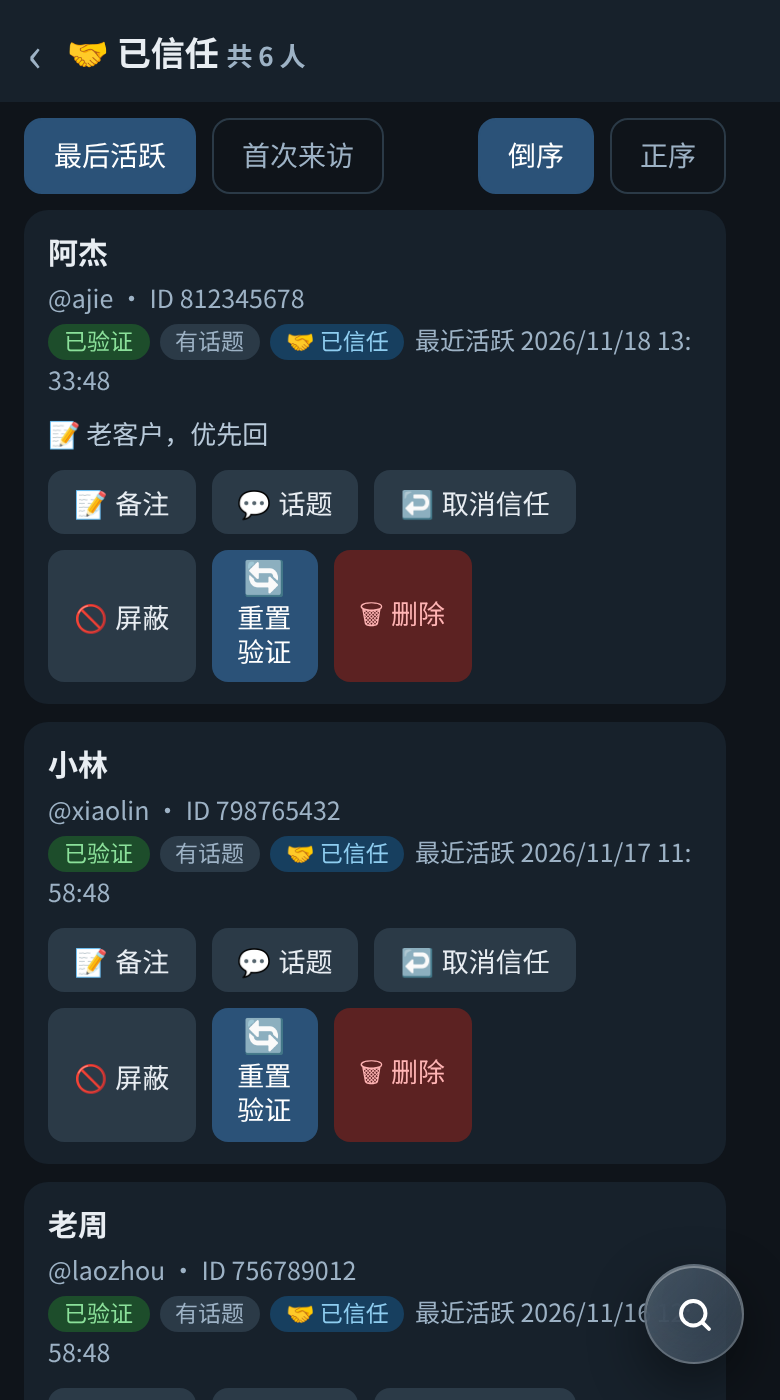
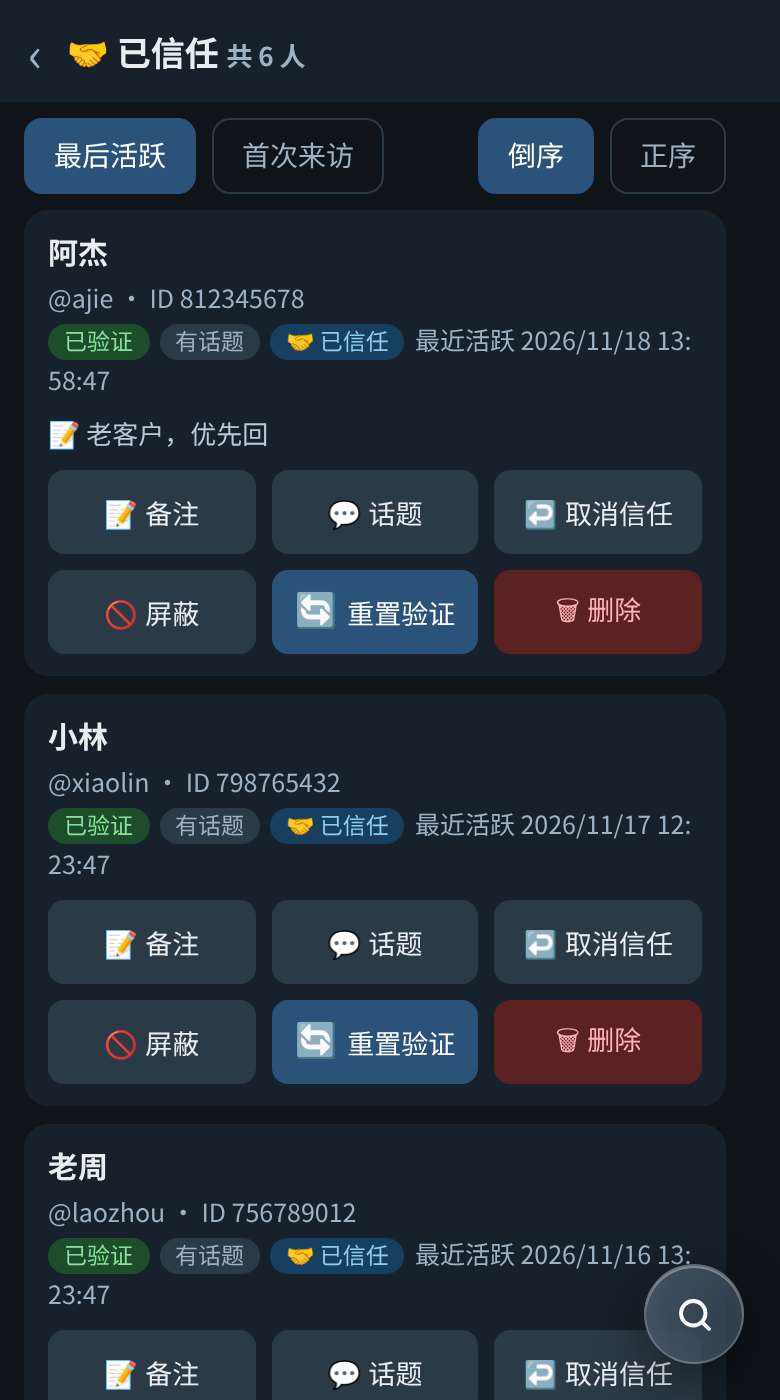
v1.6.3：访客卡按钮改等宽网格排版（每行 3 颗等宽、统一高度、重置验证横排单行）；README 第 14 项排版口径改准、功能版本号标注更新（.github 镜像同步）；访客列表、二级名单与主菜单效果图同步

diff --git a/TGbot-D1创新版本3.0.5-增强版.js b/TGbot-D1创新版本3.0.5-增强版.js
@@ -13401,7 +13401,7 @@ async function purgeManagedUser(
 /*                         自动检查更新（改版新增）                             */
 /* -------------------------------------------------------------------------- */
 
-const BOT_VERSION = 'v1.6.2';
+const BOT_VERSION = 'v1.6.3';
 const UPDATE_REPO = 'realadmin/TGbot-D1';
 const UPDATE_CACHE_KEY = 'sys:latest-release';
 const UPDATE_NOTIFIED_KEY = 'sys:update-notified';
@@ -19033,12 +19033,11 @@ function buildUserListPage(pageCtx = {}) {
   .b-dim { background: #2b3a47; color: #9db2c5; }
   .b-pass { background: #173f5f; color: #8ecdf0; }
   .ops { margin-top: 9px; display: flex; flex-wrap: wrap; gap: 8px; }
-  .ops button, .cf button { flex: 0 0 auto; padding: 6px 13px; border-radius: 8px; border: 0; font-size: 13.5px; white-space: nowrap; cursor: pointer; }
+  .ops button, .cf button { height: 42px; padding: 6px 13px; border-radius: 8px; border: 0; font-size: 13.5px; white-space: nowrap; cursor: pointer; }
+  .cf button { flex: 0 0 auto; }
+  .ops button { flex: 1 1 30%; display: flex; align-items: center; justify-content: center; gap: 5px; padding: 6px 4px; }
   .rst { background: #2b5278; color: #fff; }
-  .rwb { flex: 0 0 auto; display: flex; flex-direction: column; align-items: center; justify-content: center; gap: 2px; padding: 6px 10px; }
   .ric { font-size: 17px; line-height: 1.1; }
-  .rlab { line-height: 1.25; text-align: center; }
-  @media (min-width: 560px) { .rwb { flex-direction: row; gap: 5px; } .rlab br { display: none; } }
   .del { background: #5c2222; color: #ffb4b4; }
   .cf { margin-top: 9px; display: none; gap: 8px; flex-wrap: wrap; }
   .cf.open { display: flex; }
@@ -19600,8 +19599,8 @@ function render() {
     var ops = document.createElement('div');
     ops.className = 'ops';
     var rb = document.createElement('button');
-    rb.className = 'rst rwb';
-    rb.innerHTML = '<span class="ric">🔄</span><span class="rlab">重置<br>验证</span>';
+    rb.className = 'rst';
+    rb.innerHTML = '<span class="ric">🔄</span>重置验证';
     rb.onclick = function () {
       rb.disabled = true;
       act(u.id, 'reset', false).then(function (d) {

diff --git a/.github/README.md b/.github/README.md
@@ -42,10 +42,10 @@
 
 4. **验证消息自动清理**（v1.2.0 新增）
    - 验证流程里的机器人消息（验证提示、通行证消息与「🎉 验证成功」回执；已验证访客再发 /start 时回的也是这句欢迎消息，见本项末条）都会记下消息 ID 并在使用完毕后自动删除，不再在访客对话里越攒越多：反复索要验证提示只保留最新一条；通过验证时立即清掉验证提示与未使用的通行证；成功提示在访客发出第一条消息、进入处理时就删去（第一条消息被屏蔽关键词、类型过滤或限流拦下也照删，成功转发后再兜底清理一次）；过期未用的通行证在该访客下次来发消息时清扫。删除都是尽力而为（消息已被对方删掉等情况静默跳过），D1 里只存消息编号、不存正文，编号随访客记录一同删除。
-   - 清理范围扩围（v1.3.0，v1.6.2 再扩）：访客自己发的那条 /start，机器人在应答时就立即删掉——不等通过验证、每条都删，私聊里不留这条命令消息，日后整段清空时也不会再有删不掉的尾巴（此前只在通过验证时删最近一条、更早的不追溯）；通过验证时再清掉验证提示，验证前后的流程消息在访客对话里基本不留痕。注：早期版本在 /start 时先发的那条欢迎语已取消（v1.6.2），现在打开私聊只会收到验证卡本身；欢迎消息改在验证成功时发送，就是那句成功问候（见下条）。
-   - 欢迎消息就是验证成功问候（v1.6.2）：「🎉 验证成功」这条回执的文案改由管理台「基础配置 → 欢迎消息」决定（默认就是「🎉 验证成功！现在可以开始发送消息了。」），原先单独的「验证成功提示」设置项取消；管理台里这个字段显示的始终是实际会发出的问候：从没改过时显示默认句，早期版本留下的旧欢迎语存量会被当作未设置——既不会显示成现行文案，也不会再发给访客。
+   - 清理范围扩围（v1.3.0，v1.6.3 再扩）：访客自己发的那条 /start，机器人在应答时就立即删掉——不等通过验证、每条都删，私聊里不留这条命令消息，日后整段清空时也不会再有删不掉的尾巴（此前只在通过验证时删最近一条、更早的不追溯）；通过验证时再清掉验证提示，验证前后的流程消息在访客对话里基本不留痕。注：早期版本在 /start 时先发的那条欢迎语已取消（v1.6.3），现在打开私聊只会收到验证卡本身；欢迎消息改在验证成功时发送，就是那句成功问候（见下条）。
+   - 欢迎消息就是验证成功问候（v1.6.3）：「🎉 验证成功」这条回执的文案改由管理台「基础配置 → 欢迎消息」决定（默认就是「🎉 验证成功！现在可以开始发送消息了。」），原先单独的「验证成功提示」设置项取消；管理台里这个字段显示的始终是实际会发出的问候：从没改过时显示默认句，早期版本留下的旧欢迎语存量会被当作未设置——既不会显示成现行文案，也不会再发给访客。
    - 回执登记加固（v1.3.0）：六条发放成功提示的路径（静态问答、顺序点击、Turnstile、通行证、资料卡与列表设信任）统一收口到同一段发放代码；提示编号登记失败会自动重试，多次失败则把刚发出的这条提示删掉，宁可不留回执，也不留下一条谁也删不掉的记录。
-   - 覆盖已验证访客（v1.4.1）：已通过验证的访客再次发送 /start 时，这条 /start 同样在机器人应答时立即删掉；机器人回复的那条提示会被记下，在他下一条消息送达时清掉，不再只清提示、留下命令本身。v1.6.2 起这条提示并入欢迎消息：回的就是验证成功时那句问候本身（同一句、同一个「欢迎消息」字段可改），不再另发一条单独的已验证提示。
+   - 覆盖已验证访客（v1.4.1）：已通过验证的访客再次发送 /start 时，这条 /start 同样在机器人应答时立即删掉；机器人回复的那条提示会被记下，在他下一条消息送达时清掉，不再只清提示、留下命令本身。v1.6.3 起这条提示并入欢迎消息：回的就是验证成功时那句问候本身（同一句、同一个「欢迎消息」字段可改），不再另发一条单独的已验证提示。
 
 ### 消息转发与同步
 
@@ -116,14 +116,14 @@
    - 主菜单的网页按钮打开访客列表（签名链接、10 分钟有效、仅主管理员）：可搜索、按状态筛选、排序分页，并可对访客重置验证或删除记录（可选连带删除话题，并连访客与机器人私聊里的聊天副本一起清空）。
    - 列表改服务端分页（v1.4.0）：搜索、状态筛选与排序改由服务端按游标逐页返回，不再一次拉回全量名单；名单再大翻页也不重不漏，待验证访客的通行证状态改为一次批量读取，不再逐人查。v1.4.1：分页游标加了签名，篡改即作废；搜索改为查独立的姓名 / 用户名字段（存量访客随使用自动逐步补齐），不再拿资料原文做匹配，搜「username」这类字段名不会再误命中一片。
    - 访客姓名首次接触即落名（v1.4.3）：访客第一次发消息或按 /start 时就记下他的姓名与用户名，还没通过验证的人在列表里也有名有姓、能按名字搜到（此前名字要等通过验证、建好话题与资料卡才写，未验证访客一律显示「（无名字记录）」）；更早的存量无名行会在打开列表时自动逐批补齐（每次打开补几行，查得到的就补上，确实查不到的保持无名、等本人下次发消息时补，查询赶上限流或网络问题不会被误判成查无此人、下次打开还会重试）。
-   - 整段对话清空（v1.2.1 新增）：列表删除的「连话题、私聊一起清空」与话题内命令 /clear 共用同一套清空逻辑——按消息配对成批删除话题里的转发副本与访客私聊里的聊天副本（/clear 保留话题与访客档案，按钮版连话题与档案一并删除）；私聊里 48 小时前的消息删不掉，执行后会报告实删与删不掉的条数。（v1.6.2）私聊侧的删除范围还包括机器人单独记账、不在配对表里的流程消息：没通过验证的访客留下的验证卡、已通过的访客留下的欢迎消息，都会一并删掉并计入报告条数；话题 /clear 还会连熔断期间发出的回复卡一起清掉（此前漏删，本版补齐；网页版删人此前已覆盖）。整段清空影响很大，只有主管理员能操作：协管员发送 /clear 或点击确认都会被拦下（v1.2.2）。
+   - 整段对话清空（v1.2.1 新增）：列表删除的「连话题、私聊一起清空」与话题内命令 /clear 共用同一套清空逻辑——按消息配对成批删除话题里的转发副本与访客私聊里的聊天副本（/clear 保留话题与访客档案，按钮版连话题与档案一并删除）；私聊里 48 小时前的消息删不掉，执行后会报告实删与删不掉的条数。（v1.6.3）私聊侧的删除范围还包括机器人单独记账、不在配对表里的流程消息：没通过验证的访客留下的验证卡、已通过的访客留下的欢迎消息，都会一并删掉并计入报告条数；话题 /clear 还会连熔断期间发出的回复卡一起清掉（此前漏删，本版补齐；网页版删人此前已覆盖）。整段清空影响很大，只有主管理员能操作：协管员发送 /clear 或点击确认都会被拦下（v1.2.2）。
    - 列表顶部有数据统计区：访客总览（总数/已验证/待验证/已屏蔽/被屏蔽/未开始/已信任/有话题/待用通行证，与列表筛选对应的五项排在前面）与过去 24 小时 / 7 天 / 30 天的新增、活跃、消息量（访客/管理员回复）；活跃按建档时间拆成新客与老客两部分（新客＋老客＝总活跃），待用通行证只数已发放、还没用掉且没过期的。消息量按同步映射记录统计，仅回溯 90 天，口径在页面明示。统计数据改成切到「数据统计」页签时才取数（打开列表不再连带计算整份统计），取数期间统计区显示与名单加载相同的转圈，取到后缓存复用、失败则下次切入重试。
    - 页面为「访客列表 / 数据统计」双标签页，默认停在列表页，统计不再挤占列表的可视区域；访客备注可在列表行内查看与编辑（见第 11 项），搜索可命中备注内容。
    - 访客列表每行（有话题的访客）新增「💬 话题」按钮，点按后直接跳到话题群里该访客的话题页面，省去回群翻找话题的步骤。
    - 给单个访客开例外（v1.2.3 新增，v1.3.0 合并）：访客行与话题资料卡上只有一个「🤝 信任」开关（原「信任」与「放行」两个开关已合并为一个）。开启即免验证 + 免转发限流与按类型过滤（发新消息与编辑都豁免） + 免超时清理（删档版与温和版都免）；设上立即生效（对方收到欢迎消息、即验证成功问候，并按通过验证收尾），没走完验证的信任访客在闸门处自动放行，点 /start 也直接放行；重置验证与 /reverify 会连带撤销信任，被封禁者不能设；屏蔽关键词与关键词自动封禁对信任访客同样无效（v1.4.3：带着关键词的新消息与编辑照常送达、不拦截、不计数，此前已累计的计数不清零、只是不再增加）。只有主管理员能设：协管员在资料卡上点按会被拒绝，网页列表的授予参数也必须是明确的是 / 否，缺失或写错直接报错。信任访客行上挂「🤝 已信任」徽标（存量只有放行标记的也按已信任显示）。列表的默认排序与每页条数可在管理台预设，打开列表时自动套用。
    - 访客行新增「🚫 屏蔽 / ✅ 解封」开关（v1.3.0）：与话题命令 /ban、/unban、资料卡屏蔽按钮、关键词自动封禁走同一套封禁逻辑（详见第 21 项）。
    - 分页条带页码下拉、搜索改浮动玻璃胶囊（v1.5.5）：分页条中间的页码文字改成下拉选择，选哪页跳哪页（服务端按页取数、页码超界自动钳到最后一页；不带页码参数时原有游标翻页行为不变，页码模式与位置记忆衔接，切走再切回仍回到离开时的页）；原来占一整行的搜索框改为页面右下角的浮动玻璃胶囊，与回顶按钮同组常驻——收起是放大镜按钮、点开向左展开成输入框并自动聚焦，搜索词生效时收起的按钮上亮蓝点提醒，手动滚动、点筛选、点分页或回车都会收起（只收形态、词与结果保留），切到数据统计页签时整组隐藏。浮动按钮组可长按拖动摆放（v1.5.5）：长按回顶按钮或搜索胶囊任意一颗即可拖动整组，松手吸附到屏幕左侧或右侧、纵向停在松手高度，觉得挡住列表就把它挪开；拖回右下角原位会自动恢复避让分页条；展开搜索时回到输入法上方（靠左吸附时搜索框改为向右展开、文字紧贴放大镜），收起回到吸附的位置；翻页与切换视图时位置保持，关掉网页再打开恢复原位。
-   - 五视图横滑切换、重置验证按钮定式排版（v1.5.5）：在列表上左右滑动即可在五个筛选与「数据统计」之间切换（点按切换照旧）；卡片上的「重置验证」按钮改为定式排版——图标居中在上、「重置」「验证」各一行竖排堆叠，与同行其他按钮同宽同构图，不再随行宽收缩出现参差断行，宽屏下自动转横排一行显示。
+   - 五视图横滑切换（v1.5.5）：在列表上左右滑动即可在五个筛选与「数据统计」之间切换（点按切换照旧）；卡片按钮网格排版（v1.6.3）：卡片上的操作按钮每行 3 颗等宽排列、统一高度，全部横排单行显示，按钮标签不再被折成两行；「重置验证」也与其他按钮同规格横排（v1.5.5 起的竖排定式已取消）。
    - 排序改两段式按钮行（v1.5.5）：列表顶部的排序下拉换成一整行按钮：左半选按最后活跃还是首次来访排（首次来访即访客第一次与机器人互动、建档的时间，原先按「注册」时间称呼），右半选倒序还是正序；补上了「最后活跃 · 正序」，最久没有动静的访客也能排到最前面。这行按钮就排在列表最上方、随列表滚走不常驻；列表页顶部更紧凑：页签行与筛选行同属一整块置顶区、底色统一，各行间距收紧并成比例（页签与筛选之间是筛选与排序之间的一半），排序行上下留白收窄、顶部少占地方；管理台里的默认排序也改成同样的四种组合，旧版存下的默认设置会自动对应到新组合、不用重设。
    - 新增「被屏蔽」筛选（v1.6.0）：筛选行在「已屏蔽」之后多了第五个钮「被屏蔽」，专列拉黑了机器人的访客，横滑序列也随之多出一站（全部 / 已验证 / 待验证 / 已屏蔽 / 被屏蔽 / 数据统计，共六站）。它与已验证 / 待验证 / 已屏蔽是不同维度的横切筛选：同一个人可以同时是已验证又被屏蔽，在这个视图里他的卡片仍显示各自原来的状态徽章；这里的人数与数据统计页「被屏蔽」的计数同一口径，对方解除拉黑后会自动退出这个视图；搜索与排序在这个视图里照常可用。
    - 统计数字可点进名单（v1.6.0）：数据统计页访客总览的九个数字都能点：点访客总数 / 已验证 / 待验证 / 已屏蔽 / 被屏蔽，直接跳到访客列表并激活对应的筛选；点未开始 / 已信任 / 有话题 / 待用通行证，则进入一个专属的二级名单页：点开时整个名单页从右侧整页推入，顶部只有返回箭头、人群名和紧跟在名字后面的人数（同一行），没有页签与筛选按钮，但名单上方有与访客列表共用的同一条排序栏（最后活跃 / 首次来访 × 正序 / 倒序），两边共用一份排序设置、在一处改了另一处同步，翻看、搜索与行内操作和访客列表一样，点返回整页滑出、回到数据统计。四个新筛选与统计页的计数同一口径（待用通行证只数还没用掉且没过期的，统计与列表共用同一套判定，两边数字恒等）；统计页里被封禁这批人的称呼也与筛选统一为「已屏蔽」。
@@ -135,7 +135,7 @@
     - 原来在 Telegram 里逐个点按钮、等菜单刷新的配置方式已删除，全部搬到网页：主菜单点「🛠 网页管理台」打开（同一套签名鉴权、仅主管理员），基础配置（欢迎消息/验证问答/验证方式/超时天数）、按类型过滤、屏蔽关键词、自动回复、协管员名单都在页内表单完成，改完即时生效。
     - 旧聊天记录里残留的配置按钮点按只会提示已迁移；话题内的访客资料卡按钮与话题命令不受影响。
     - 基础配置中验证方式排在验证问题之前；选择 Turnstile 时，验证问题与验证答案两项自动隐藏，切回静态问答再显示。
-    - 「基础配置」区内含「⚙ 参数与开关」（v1.2.3）：转发限流强度、通行证 / 验证链接有效期、问答锁定次数与时长、命令回执停留秒数可调，以及功能开关：反应同步 / 转发失败提醒 / 拉黑提醒（编辑标记为写死特性、不设开关，见第 6 项）；另有「🎨 文案与呈现」区（v1.2.3）：可配文案（答错、熔断恢复、熔断编辑警告、拉黑、解封五句；v1.6.2 起再扩九项：问答锁定提示、人机验证卡正文、通行证送达、发给访客的封禁 / 解封通知、关键词命中提示、类型过滤的拒绝提示（发送类与转发类两个模板）、特殊类型无法转达提示，带 {minutes}、{count} 这类占位符的文案替换后填入实际数字）、话题名四种样式（备注在前 / 名字在前 / 不带 ID / 备注不上标题）、主菜单五个按钮逐个显隐、访客列表默认排序与每页条数。
+    - 「基础配置」区内含「⚙ 参数与开关」（v1.2.3）：转发限流强度、通行证 / 验证链接有效期、问答锁定次数与时长、命令回执停留秒数可调，以及功能开关：反应同步 / 转发失败提醒 / 拉黑提醒（编辑标记为写死特性、不设开关，见第 6 项）；另有「🎨 文案与呈现」区（v1.2.3）：可配文案（答错、熔断恢复、熔断编辑警告、拉黑、解封五句；v1.6.3 起再扩九项：问答锁定提示、人机验证卡正文、通行证送达、发给访客的封禁 / 解封通知、关键词命中提示、类型过滤的拒绝提示（发送类与转发类两个模板）、特殊类型无法转达提示，带 {minutes}、{count} 这类占位符的文案替换后填入实际数字）、话题名四种样式（备注在前 / 名字在前 / 不带 ID / 备注不上标题）、主菜单五个按钮逐个显隐、访客列表默认排序与每页条数。
     - 主菜单的「网页管理台」按钮关掉前，页面会二次确认并给出警示（三页入口都经主菜单发放，关了之后手头链接过期就无处再领）；真关了也不怕：主管理员私聊发送 `/panel` 即可临时打开管理台（v1.2.3）。
     - 新增「🔐 安全与审计」区（v1.4.0）：三页网页链接可按页一键失效（见第 20 项），管理操作审计记录可在此查看；时间显示时区也可在「文案与呈现」里设置（默认 Asia/Singapore）。v1.4.1：审计记录支持按管理员 / 动作 / 目标筛选与翻页，并多记链接代次与来源 IP 两项归因；删除访客（含整段清空）、改协管员名单与成员看门狗豁免名单、作废链接这些最敏感的动作改为先写审计、写不进去就拒绝执行，其余操作审计写失败时管理台顶部会挂出异常横幅；安全区也写明了吊销的范围——只管已发出的网页链接，疑似签名密钥泄露时必须更换密钥，光吊销不够。
 
@@ -191,7 +191,7 @@
 
 22. **自动检查更新与命令菜单**（v1.0.2 新增）
     - 机器人会定期比对本仓库最新 Release，主菜单显示当前版本与更新状态；发现新版会私聊通知主管理员一次。主菜单有「🔄 检查更新」按钮，私聊命令 `/version` 也可查看。
-    - 命令菜单按身份分开注册（v1.6.2）：访客在私聊里点开菜单只看得到 `/start`；主管理员在自己的私聊里另有 `/testverify`、`/version`、`/panel`（主管理员直达网页管理台，v1.2.3）、`/pause`、`/resume`；话题命令 `/ban`、`/unban`、`/delete`、`/clear`、`/terminate`、`/card`、`/reverify`、`/note`、`/notedelete`、`/pause`、`/resume` 只出现在接待群里。`/help` 命令已下线（v1.6.2）：它和 /start 效果重复，手打 /help 会按普通消息处理。
+    - 命令菜单按身份分开注册（v1.6.3）：访客在私聊里点开菜单只看得到 `/start`；主管理员在自己的私聊里另有 `/testverify`、`/version`、`/panel`（主管理员直达网页管理台，v1.2.3）、`/pause`、`/resume`；话题命令 `/ban`、`/unban`、`/delete`、`/clear`、`/terminate`、`/card`、`/reverify`、`/note`、`/notedelete`、`/pause`、`/resume` 只出现在接待群里。`/help` 命令已下线（v1.6.3）：它和 /start 效果重复，手打 /help 会按普通消息处理。
 
 ## 与原版部署的差异
 

diff --git a/README-增强版.md b/README-增强版.md
@@ -42,10 +42,10 @@
 
 4. **验证消息自动清理**（v1.2.0 新增）
    - 验证流程里的机器人消息（验证提示、通行证消息与「🎉 验证成功」回执；已验证访客再发 /start 时回的也是这句欢迎消息，见本项末条）都会记下消息 ID 并在使用完毕后自动删除，不再在访客对话里越攒越多：反复索要验证提示只保留最新一条；通过验证时立即清掉验证提示与未使用的通行证；成功提示在访客发出第一条消息、进入处理时就删去（第一条消息被屏蔽关键词、类型过滤或限流拦下也照删，成功转发后再兜底清理一次）；过期未用的通行证在该访客下次来发消息时清扫。删除都是尽力而为（消息已被对方删掉等情况静默跳过），D1 里只存消息编号、不存正文，编号随访客记录一同删除。
-   - 清理范围扩围（v1.3.0，v1.6.2 再扩）：访客自己发的那条 /start，机器人在应答时就立即删掉——不等通过验证、每条都删，私聊里不留这条命令消息，日后整段清空时也不会再有删不掉的尾巴（此前只在通过验证时删最近一条、更早的不追溯）；通过验证时再清掉验证提示，验证前后的流程消息在访客对话里基本不留痕。注：早期版本在 /start 时先发的那条欢迎语已取消（v1.6.2），现在打开私聊只会收到验证卡本身；欢迎消息改在验证成功时发送，就是那句成功问候（见下条）。
-   - 欢迎消息就是验证成功问候（v1.6.2）：「🎉 验证成功」这条回执的文案改由管理台「基础配置 → 欢迎消息」决定（默认就是「🎉 验证成功！现在可以开始发送消息了。」），原先单独的「验证成功提示」设置项取消；管理台里这个字段显示的始终是实际会发出的问候：从没改过时显示默认句，早期版本留下的旧欢迎语存量会被当作未设置——既不会显示成现行文案，也不会再发给访客。
+   - 清理范围扩围（v1.3.0，v1.6.3 再扩）：访客自己发的那条 /start，机器人在应答时就立即删掉——不等通过验证、每条都删，私聊里不留这条命令消息，日后整段清空时也不会再有删不掉的尾巴（此前只在通过验证时删最近一条、更早的不追溯）；通过验证时再清掉验证提示，验证前后的流程消息在访客对话里基本不留痕。注：早期版本在 /start 时先发的那条欢迎语已取消（v1.6.3），现在打开私聊只会收到验证卡本身；欢迎消息改在验证成功时发送，就是那句成功问候（见下条）。
+   - 欢迎消息就是验证成功问候（v1.6.3）：「🎉 验证成功」这条回执的文案改由管理台「基础配置 → 欢迎消息」决定（默认就是「🎉 验证成功！现在可以开始发送消息了。」），原先单独的「验证成功提示」设置项取消；管理台里这个字段显示的始终是实际会发出的问候：从没改过时显示默认句，早期版本留下的旧欢迎语存量会被当作未设置——既不会显示成现行文案，也不会再发给访客。
    - 回执登记加固（v1.3.0）：六条发放成功提示的路径（静态问答、顺序点击、Turnstile、通行证、资料卡与列表设信任）统一收口到同一段发放代码；提示编号登记失败会自动重试，多次失败则把刚发出的这条提示删掉，宁可不留回执，也不留下一条谁也删不掉的记录。
-   - 覆盖已验证访客（v1.4.1）：已通过验证的访客再次发送 /start 时，这条 /start 同样在机器人应答时立即删掉；机器人回复的那条提示会被记下，在他下一条消息送达时清掉，不再只清提示、留下命令本身。v1.6.2 起这条提示并入欢迎消息：回的就是验证成功时那句问候本身（同一句、同一个「欢迎消息」字段可改），不再另发一条单独的已验证提示。
+   - 覆盖已验证访客（v1.4.1）：已通过验证的访客再次发送 /start 时，这条 /start 同样在机器人应答时立即删掉；机器人回复的那条提示会被记下，在他下一条消息送达时清掉，不再只清提示、留下命令本身。v1.6.3 起这条提示并入欢迎消息：回的就是验证成功时那句问候本身（同一句、同一个「欢迎消息」字段可改），不再另发一条单独的已验证提示。
 
 ### 消息转发与同步
 
@@ -116,14 +116,14 @@
    - 主菜单的网页按钮打开访客列表（签名链接、10 分钟有效、仅主管理员）：可搜索、按状态筛选、排序分页，并可对访客重置验证或删除记录（可选连带删除话题，并连访客与机器人私聊里的聊天副本一起清空）。
    - 列表改服务端分页（v1.4.0）：搜索、状态筛选与排序改由服务端按游标逐页返回，不再一次拉回全量名单；名单再大翻页也不重不漏，待验证访客的通行证状态改为一次批量读取，不再逐人查。v1.4.1：分页游标加了签名，篡改即作废；搜索改为查独立的姓名 / 用户名字段（存量访客随使用自动逐步补齐），不再拿资料原文做匹配，搜「username」这类字段名不会再误命中一片。
    - 访客姓名首次接触即落名（v1.4.3）：访客第一次发消息或按 /start 时就记下他的姓名与用户名，还没通过验证的人在列表里也有名有姓、能按名字搜到（此前名字要等通过验证、建好话题与资料卡才写，未验证访客一律显示「（无名字记录）」）；更早的存量无名行会在打开列表时自动逐批补齐（每次打开补几行，查得到的就补上，确实查不到的保持无名、等本人下次发消息时补，查询赶上限流或网络问题不会被误判成查无此人、下次打开还会重试）。
-   - 整段对话清空（v1.2.1 新增）：列表删除的「连话题、私聊一起清空」与话题内命令 /clear 共用同一套清空逻辑——按消息配对成批删除话题里的转发副本与访客私聊里的聊天副本（/clear 保留话题与访客档案，按钮版连话题与档案一并删除）；私聊里 48 小时前的消息删不掉，执行后会报告实删与删不掉的条数。（v1.6.2）私聊侧的删除范围还包括机器人单独记账、不在配对表里的流程消息：没通过验证的访客留下的验证卡、已通过的访客留下的欢迎消息，都会一并删掉并计入报告条数；话题 /clear 还会连熔断期间发出的回复卡一起清掉（此前漏删，本版补齐；网页版删人此前已覆盖）。整段清空影响很大，只有主管理员能操作：协管员发送 /clear 或点击确认都会被拦下（v1.2.2）。
+   - 整段对话清空（v1.2.1 新增）：列表删除的「连话题、私聊一起清空」与话题内命令 /clear 共用同一套清空逻辑——按消息配对成批删除话题里的转发副本与访客私聊里的聊天副本（/clear 保留话题与访客档案，按钮版连话题与档案一并删除）；私聊里 48 小时前的消息删不掉，执行后会报告实删与删不掉的条数。（v1.6.3）私聊侧的删除范围还包括机器人单独记账、不在配对表里的流程消息：没通过验证的访客留下的验证卡、已通过的访客留下的欢迎消息，都会一并删掉并计入报告条数；话题 /clear 还会连熔断期间发出的回复卡一起清掉（此前漏删，本版补齐；网页版删人此前已覆盖）。整段清空影响很大，只有主管理员能操作：协管员发送 /clear 或点击确认都会被拦下（v1.2.2）。
    - 列表顶部有数据统计区：访客总览（总数/已验证/待验证/已屏蔽/被屏蔽/未开始/已信任/有话题/待用通行证，与列表筛选对应的五项排在前面）与过去 24 小时 / 7 天 / 30 天的新增、活跃、消息量（访客/管理员回复）；活跃按建档时间拆成新客与老客两部分（新客＋老客＝总活跃），待用通行证只数已发放、还没用掉且没过期的。消息量按同步映射记录统计，仅回溯 90 天，口径在页面明示。统计数据改成切到「数据统计」页签时才取数（打开列表不再连带计算整份统计），取数期间统计区显示与名单加载相同的转圈，取到后缓存复用、失败则下次切入重试。
    - 页面为「访客列表 / 数据统计」双标签页，默认停在列表页，统计不再挤占列表的可视区域；访客备注可在列表行内查看与编辑（见第 11 项），搜索可命中备注内容。
    - 访客列表每行（有话题的访客）新增「💬 话题」按钮，点按后直接跳到话题群里该访客的话题页面，省去回群翻找话题的步骤。
    - 给单个访客开例外（v1.2.3 新增，v1.3.0 合并）：访客行与话题资料卡上只有一个「🤝 信任」开关（原「信任」与「放行」两个开关已合并为一个）。开启即免验证 + 免转发限流与按类型过滤（发新消息与编辑都豁免） + 免超时清理（删档版与温和版都免）；设上立即生效（对方收到欢迎消息、即验证成功问候，并按通过验证收尾），没走完验证的信任访客在闸门处自动放行，点 /start 也直接放行；重置验证与 /reverify 会连带撤销信任，被封禁者不能设；屏蔽关键词与关键词自动封禁对信任访客同样无效（v1.4.3：带着关键词的新消息与编辑照常送达、不拦截、不计数，此前已累计的计数不清零、只是不再增加）。只有主管理员能设：协管员在资料卡上点按会被拒绝，网页列表的授予参数也必须是明确的是 / 否，缺失或写错直接报错。信任访客行上挂「🤝 已信任」徽标（存量只有放行标记的也按已信任显示）。列表的默认排序与每页条数可在管理台预设，打开列表时自动套用。
    - 访客行新增「🚫 屏蔽 / ✅ 解封」开关（v1.3.0）：与话题命令 /ban、/unban、资料卡屏蔽按钮、关键词自动封禁走同一套封禁逻辑（详见第 21 项）。
    - 分页条带页码下拉、搜索改浮动玻璃胶囊（v1.5.5）：分页条中间的页码文字改成下拉选择，选哪页跳哪页（服务端按页取数、页码超界自动钳到最后一页；不带页码参数时原有游标翻页行为不变，页码模式与位置记忆衔接，切走再切回仍回到离开时的页）；原来占一整行的搜索框改为页面右下角的浮动玻璃胶囊，与回顶按钮同组常驻——收起是放大镜按钮、点开向左展开成输入框并自动聚焦，搜索词生效时收起的按钮上亮蓝点提醒，手动滚动、点筛选、点分页或回车都会收起（只收形态、词与结果保留），切到数据统计页签时整组隐藏。浮动按钮组可长按拖动摆放（v1.5.5）：长按回顶按钮或搜索胶囊任意一颗即可拖动整组，松手吸附到屏幕左侧或右侧、纵向停在松手高度，觉得挡住列表就把它挪开；拖回右下角原位会自动恢复避让分页条；展开搜索时回到输入法上方（靠左吸附时搜索框改为向右展开、文字紧贴放大镜），收起回到吸附的位置；翻页与切换视图时位置保持，关掉网页再打开恢复原位。
-   - 五视图横滑切换、重置验证按钮定式排版（v1.5.5）：在列表上左右滑动即可在五个筛选与「数据统计」之间切换（点按切换照旧）；卡片上的「重置验证」按钮改为定式排版——图标居中在上、「重置」「验证」各一行竖排堆叠，与同行其他按钮同宽同构图，不再随行宽收缩出现参差断行，宽屏下自动转横排一行显示。
+   - 五视图横滑切换（v1.5.5）：在列表上左右滑动即可在五个筛选与「数据统计」之间切换（点按切换照旧）；卡片按钮网格排版（v1.6.3）：卡片上的操作按钮每行 3 颗等宽排列、统一高度，全部横排单行显示，按钮标签不再被折成两行；「重置验证」也与其他按钮同规格横排（v1.5.5 起的竖排定式已取消）。
    - 排序改两段式按钮行（v1.5.5）：列表顶部的排序下拉换成一整行按钮：左半选按最后活跃还是首次来访排（首次来访即访客第一次与机器人互动、建档的时间，原先按「注册」时间称呼），右半选倒序还是正序；补上了「最后活跃 · 正序」，最久没有动静的访客也能排到最前面。这行按钮就排在列表最上方、随列表滚走不常驻；列表页顶部更紧凑：页签行与筛选行同属一整块置顶区、底色统一，各行间距收紧并成比例（页签与筛选之间是筛选与排序之间的一半），排序行上下留白收窄、顶部少占地方；管理台里的默认排序也改成同样的四种组合，旧版存下的默认设置会自动对应到新组合、不用重设。
    - 新增「被屏蔽」筛选（v1.6.0）：筛选行在「已屏蔽」之后多了第五个钮「被屏蔽」，专列拉黑了机器人的访客，横滑序列也随之多出一站（全部 / 已验证 / 待验证 / 已屏蔽 / 被屏蔽 / 数据统计，共六站）。它与已验证 / 待验证 / 已屏蔽是不同维度的横切筛选：同一个人可以同时是已验证又被屏蔽，在这个视图里他的卡片仍显示各自原来的状态徽章；这里的人数与数据统计页「被屏蔽」的计数同一口径，对方解除拉黑后会自动退出这个视图；搜索与排序在这个视图里照常可用。
    - 统计数字可点进名单（v1.6.0）：数据统计页访客总览的九个数字都能点：点访客总数 / 已验证 / 待验证 / 已屏蔽 / 被屏蔽，直接跳到访客列表并激活对应的筛选；点未开始 / 已信任 / 有话题 / 待用通行证，则进入一个专属的二级名单页：点开时整个名单页从右侧整页推入，顶部只有返回箭头、人群名和紧跟在名字后面的人数（同一行），没有页签与筛选按钮，但名单上方有与访客列表共用的同一条排序栏（最后活跃 / 首次来访 × 正序 / 倒序），两边共用一份排序设置、在一处改了另一处同步，翻看、搜索与行内操作和访客列表一样，点返回整页滑出、回到数据统计。四个新筛选与统计页的计数同一口径（待用通行证只数还没用掉且没过期的，统计与列表共用同一套判定，两边数字恒等）；统计页里被封禁这批人的称呼也与筛选统一为「已屏蔽」。
@@ -135,7 +135,7 @@
     - 原来在 Telegram 里逐个点按钮、等菜单刷新的配置方式已删除，全部搬到网页：主菜单点「🛠 网页管理台」打开（同一套签名鉴权、仅主管理员），基础配置（欢迎消息/验证问答/验证方式/超时天数）、按类型过滤、屏蔽关键词、自动回复、协管员名单都在页内表单完成，改完即时生效。
     - 旧聊天记录里残留的配置按钮点按只会提示已迁移；话题内的访客资料卡按钮与话题命令不受影响。
     - 基础配置中验证方式排在验证问题之前；选择 Turnstile 时，验证问题与验证答案两项自动隐藏，切回静态问答再显示。
-    - 「基础配置」区内含「⚙ 参数与开关」（v1.2.3）：转发限流强度、通行证 / 验证链接有效期、问答锁定次数与时长、命令回执停留秒数可调，以及功能开关：反应同步 / 转发失败提醒 / 拉黑提醒（编辑标记为写死特性、不设开关，见第 6 项）；另有「🎨 文案与呈现」区（v1.2.3）：可配文案（答错、熔断恢复、熔断编辑警告、拉黑、解封五句；v1.6.2 起再扩九项：问答锁定提示、人机验证卡正文、通行证送达、发给访客的封禁 / 解封通知、关键词命中提示、类型过滤的拒绝提示（发送类与转发类两个模板）、特殊类型无法转达提示，带 {minutes}、{count} 这类占位符的文案替换后填入实际数字）、话题名四种样式（备注在前 / 名字在前 / 不带 ID / 备注不上标题）、主菜单五个按钮逐个显隐、访客列表默认排序与每页条数。
+    - 「基础配置」区内含「⚙ 参数与开关」（v1.2.3）：转发限流强度、通行证 / 验证链接有效期、问答锁定次数与时长、命令回执停留秒数可调，以及功能开关：反应同步 / 转发失败提醒 / 拉黑提醒（编辑标记为写死特性、不设开关，见第 6 项）；另有「🎨 文案与呈现」区（v1.2.3）：可配文案（答错、熔断恢复、熔断编辑警告、拉黑、解封五句；v1.6.3 起再扩九项：问答锁定提示、人机验证卡正文、通行证送达、发给访客的封禁 / 解封通知、关键词命中提示、类型过滤的拒绝提示（发送类与转发类两个模板）、特殊类型无法转达提示，带 {minutes}、{count} 这类占位符的文案替换后填入实际数字）、话题名四种样式（备注在前 / 名字在前 / 不带 ID / 备注不上标题）、主菜单五个按钮逐个显隐、访客列表默认排序与每页条数。
     - 主菜单的「网页管理台」按钮关掉前，页面会二次确认并给出警示（三页入口都经主菜单发放，关了之后手头链接过期就无处再领）；真关了也不怕：主管理员私聊发送 `/panel` 即可临时打开管理台（v1.2.3）。
     - 新增「🔐 安全与审计」区（v1.4.0）：三页网页链接可按页一键失效（见第 20 项），管理操作审计记录可在此查看；时间显示时区也可在「文案与呈现」里设置（默认 Asia/Singapore）。v1.4.1：审计记录支持按管理员 / 动作 / 目标筛选与翻页，并多记链接代次与来源 IP 两项归因；删除访客（含整段清空）、改协管员名单与成员看门狗豁免名单、作废链接这些最敏感的动作改为先写审计、写不进去就拒绝执行，其余操作审计写失败时管理台顶部会挂出异常横幅；安全区也写明了吊销的范围——只管已发出的网页链接，疑似签名密钥泄露时必须更换密钥，光吊销不够。
 
@@ -191,7 +191,7 @@
 
 22. **自动检查更新与命令菜单**（v1.0.2 新增）
     - 机器人会定期比对本仓库最新 Release，主菜单显示当前版本与更新状态；发现新版会私聊通知主管理员一次。主菜单有「🔄 检查更新」按钮，私聊命令 `/version` 也可查看。
-    - 命令菜单按身份分开注册（v1.6.2）：访客在私聊里点开菜单只看得到 `/start`；主管理员在自己的私聊里另有 `/testverify`、`/version`、`/panel`（主管理员直达网页管理台，v1.2.3）、`/pause`、`/resume`；话题命令 `/ban`、`/unban`、`/delete`、`/clear`、`/terminate`、`/card`、`/reverify`、`/note`、`/notedelete`、`/pause`、`/resume` 只出现在接待群里。`/help` 命令已下线（v1.6.2）：它和 /start 效果重复，手打 /help 会按普通消息处理。
+    - 命令菜单按身份分开注册（v1.6.3）：访客在私聊里点开菜单只看得到 `/start`；主管理员在自己的私聊里另有 `/testverify`、`/version`、`/panel`（主管理员直达网页管理台，v1.2.3）、`/pause`、`/resume`；话题命令 `/ban`、`/unban`、`/delete`、`/clear`、`/terminate`、`/card`、`/reverify`、`/note`、`/notedelete`、`/pause`、`/resume` 只出现在接待群里。`/help` 命令已下线（v1.6.3）：它和 /start 效果重复，手打 /help 会按普通消息处理。
 
 ## 与原版部署的差异
 
